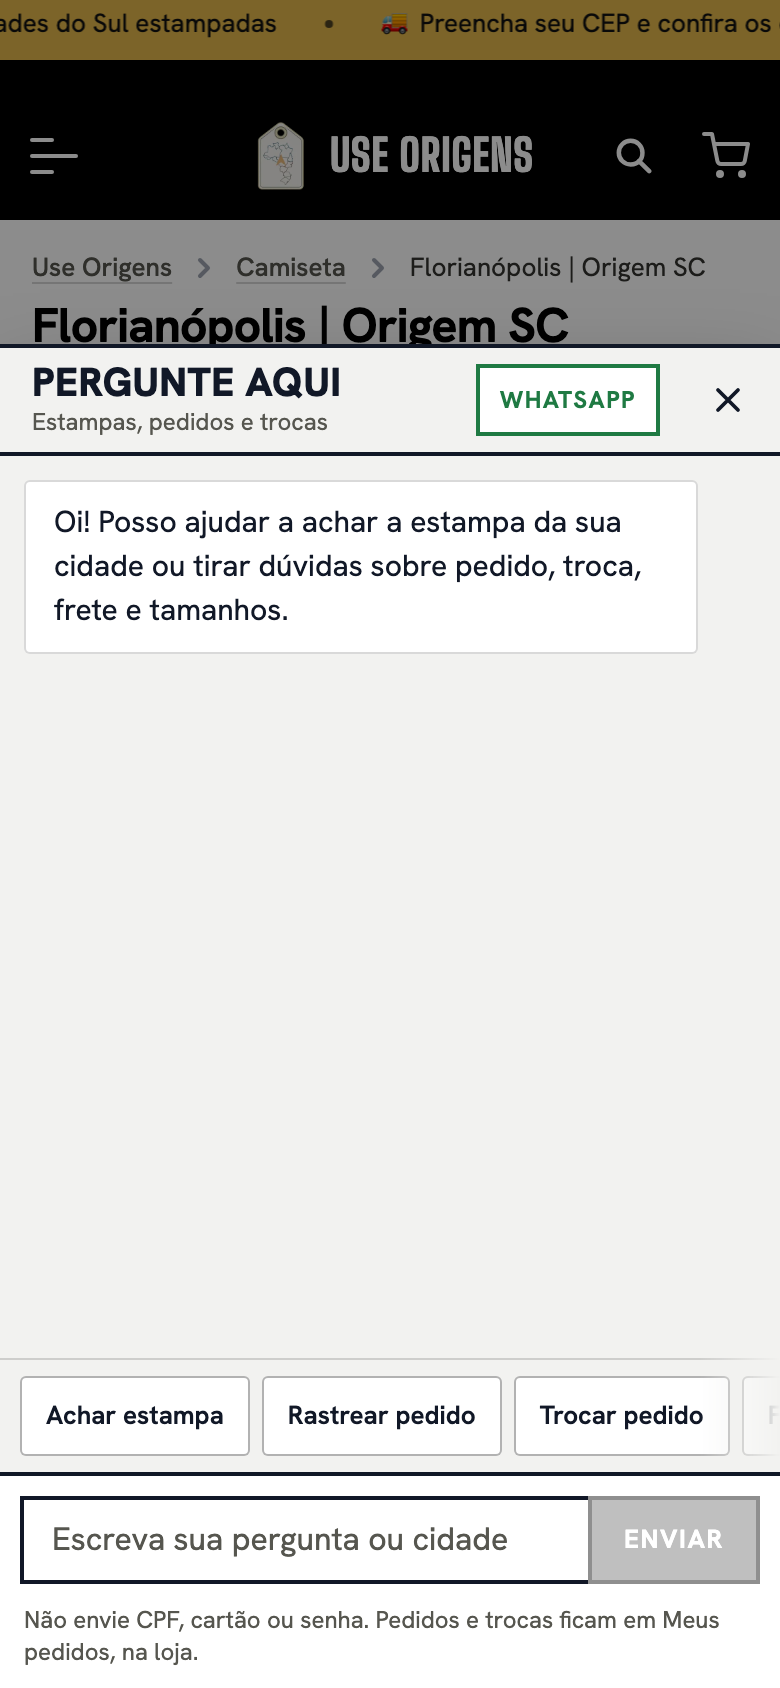
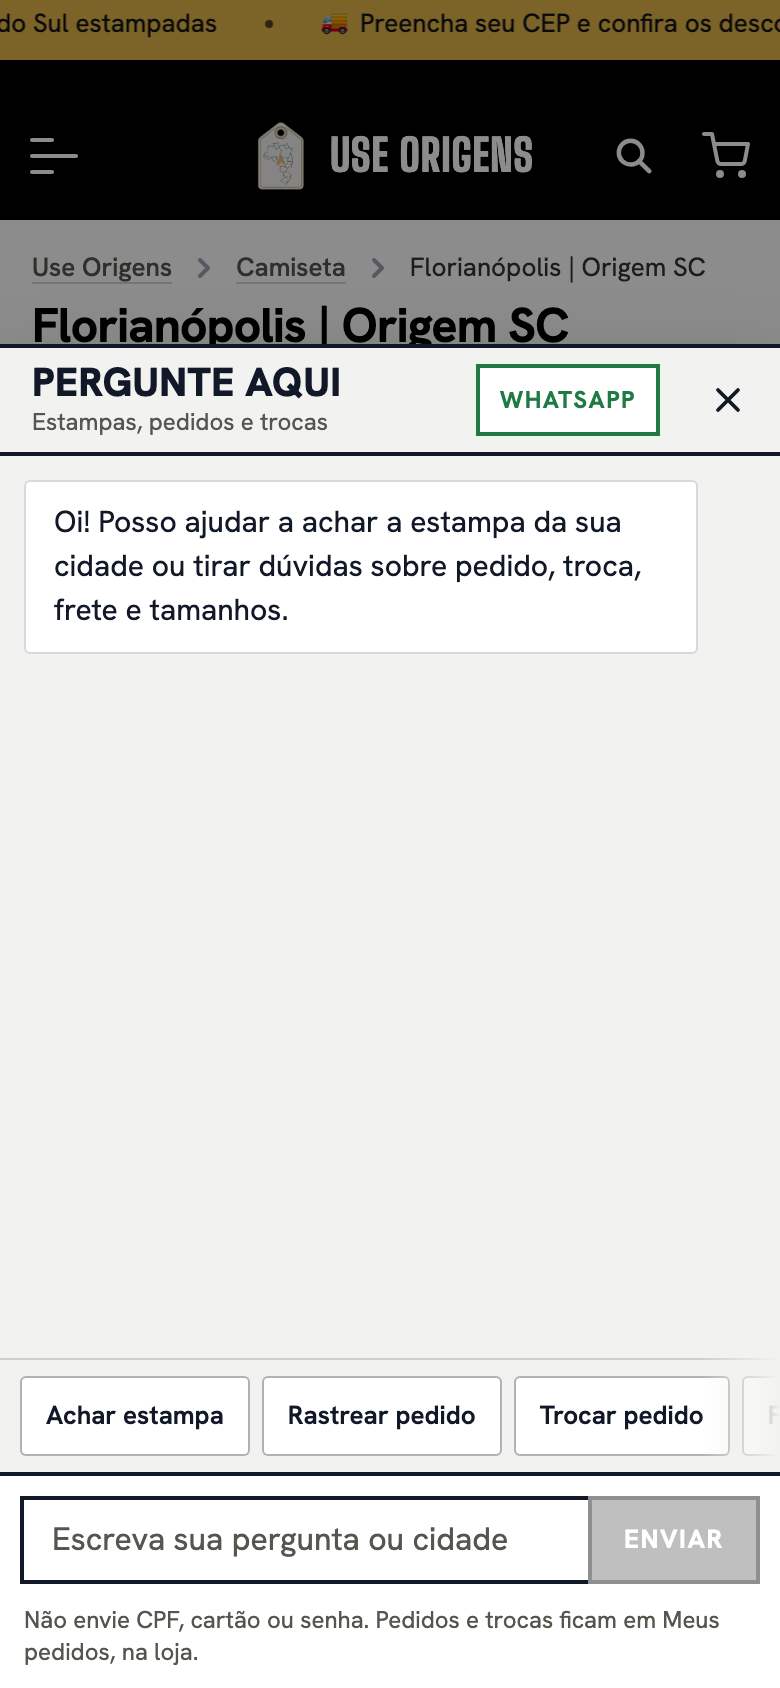
feat(worker): no celular, o botão do assistente é só o ícone
Pedido do dono (26/10): para não disputar a atenção com a loja. Abaixo de 640px, um quadrado de 48px com o balão (como o botão de cupons);
o texto fica no botão, escondido só da vista, para leitores de tela. No computador, nada muda. Prints atualizados.

Changed region(s): [[0.4, 0.0, 1.0, 0.0308], [0.0, 0.0, 0.3385, 0.0308]]

diff --git a/src/loader/assistant.js b/src/loader/assistant.js
@@ -3,7 +3,7 @@
 //             é lembrada por um minuto (sessionStorage). Desligado, erro, timeout ou JSON inválido => NADA nosso aparece e o "Ajuda?" da INK fica como está.
 //   Troca:    o botão nativo ([data-controller~="ink-store--help-button"], com Status do pedido, Troca, Devolução e WhatsApp) só é escondido DEPOIS que o
 //             nosso montou, por um <style> dentro do nosso nó: desmontou (Turbo para fora do escopo, feature desligada) = o nativo volta sozinho.
-//   Botão:    canto inferior DIREITO (o de cupons fica à esquerda), com o texto do painel ("Pergunte aqui" por padrão) e ícone; sobe acima do CTA fixo
+//   Botão:    canto inferior DIREITO (o de cupons fica à esquerda), com o texto do painel ("Pergunte aqui" por padrão) e ícone (no celular, só o ícone); sobe acima do CTA fixo
 //             (#add-to-cart-mob) e do aviso de cookies; some com o carrinho, um modal, o menu, o teclado virtual ou quando cobriria controles do formulário de
 //             compra. Brilho suave na cor de destaque da região até a pessoa abrir o chat uma vez na visita: três respirações lentas, depois um halo parado.
 //   Painel:   celular = folha inferior (modal, foco preso, rolagem travada); telas maiores = cartão ancorado ao botão. Cartões de estampa (foto e preço reais),
@@ -183,6 +183,8 @@ export const ASSISTANT = String.raw`
     '#o-assist *{box-sizing:border-box}',
     '#o-assist .o-assist-fab{position:fixed;z-index:' + ASSIST_Z + ';display:inline-flex;align-items:center;gap:8px;height:' + ASSIST_HEIGHT + 'px;padding:0 16px 0 14px;margin:0;border:0;border-radius:12px;background:' + ASSIST_TINT + ';color:#fff;font:inherit;font-size:13px;font-weight:800;text-transform:uppercase;letter-spacing:.08em;box-shadow:0 6px 18px rgba(0,0,0,.24);cursor:pointer;outline-offset:4px;-webkit-tap-highlight-color:transparent}',
     '#o-assist .o-assist-fab[hidden]{display:none}',
+    // Celular: só o ícone (um quadrado de 48px), para o botão não disputar a atenção com a loja; o texto fica para leitores de tela.
+    '@media (max-width:639px){#o-assist .o-assist-fab{width:' + ASSIST_HEIGHT + 'px;padding:0;justify-content:center}#o-assist .o-assist-fab [data-assist-label]{position:absolute;width:1px;height:1px;margin:-1px;padding:0;overflow:hidden;clip:rect(0 0 0 0);white-space:nowrap;border:0}}',
     // O brilho: a sombra de um pseudo-elemento, para só a opacidade mexer (sombra externa nunca pinta por cima do botão). Sem movimento: o halo parado.
     '#o-assist .o-assist-fab[data-glow]::before{content:"";position:absolute;inset:0;border-radius:inherit;box-shadow:0 0 0 2px ' + ASSIST_ACCENT + ',0 0 18px 3px ' + ASSIST_ACCENT + ';opacity:.4;pointer-events:none}',
     '#o-assist .o-assist-fab[data-glow="pulse"]::before{animation:o-assist-glow 2.4s ease-in-out .8s 3}',

diff --git a/test/assistant.dom.test.js b/test/assistant.dom.test.js
@@ -50,6 +50,8 @@ test('on: ONE "Pergunte aqui" button bottom-right; INK\'s own "Ajuda?" (with its
   await tick();
   assert.equal(t.all('#o-assist').length, 1);
   assert.equal(t.q('#o-assist [data-assist-label]').textContent, 'Pergunte aqui', 'a storefront that sends no text: the default one');
+  // Phones: the icon alone; the word stays in the button for screen readers (visually hidden, never removed).
+  assert.match(t.q('#o-assist style').textContent, /@media \(max-width:639px\)\{#o-assist \.o-assist-fab\{width:48px;padding:0;justify-content:center\}#o-assist \.o-assist-fab \[data-assist-label\]\{position:absolute;width:1px;height:1px/);
   assert.match(t.q('#o-assist .o-assist-fab').style.right, /16px/);
   assert.match(t.q('#o-assist style').textContent, /\[data-controller~="ink-store--help-button"\]\{display:none!important\}/);
   assert.ok(t.q('[data-controller~="ink-store--help-button"]'), 'the native node is never removed, only hidden by our style');

diff --git a/docs/assistente.md b/docs/assistente.md
@@ -12,7 +12,9 @@ storefront (`/api/assistente/<região>`, contrato v1; ver `docs/storefront/assis
   - Cada cartão e cada link é revalidado. Os links de pedidos são remontados a partir da loja. O WhatsApp só passa como wa.me.
   - Qualquer falha devolve 503 JSON.
 - **Texto do botão e temas fixos.**
-  - O GET traz `label` (o texto do botão e o título do chat) e `topics` (até 4 temas sempre acima do campo). Os dois são opcionais no v1 e
+  - O GET traz `label` (o texto do botão e o título do chat) e `topics` (até 4 temas sempre acima do campo).
+  - No celular (abaixo de 640px), o botão é só o ícone (48px), para não disputar a atenção com a loja. O texto fica no botão,
+    escondido só da vista, para leitores de tela. Os dois são opcionais no v1 e
     revalidados aqui e no navegador.
   - Texto fora do formato vira o padrão do loader ("Pergunte aqui"). Um tema fora do formato cai sozinho. Sem `topics`, não há linha de
     temas.
